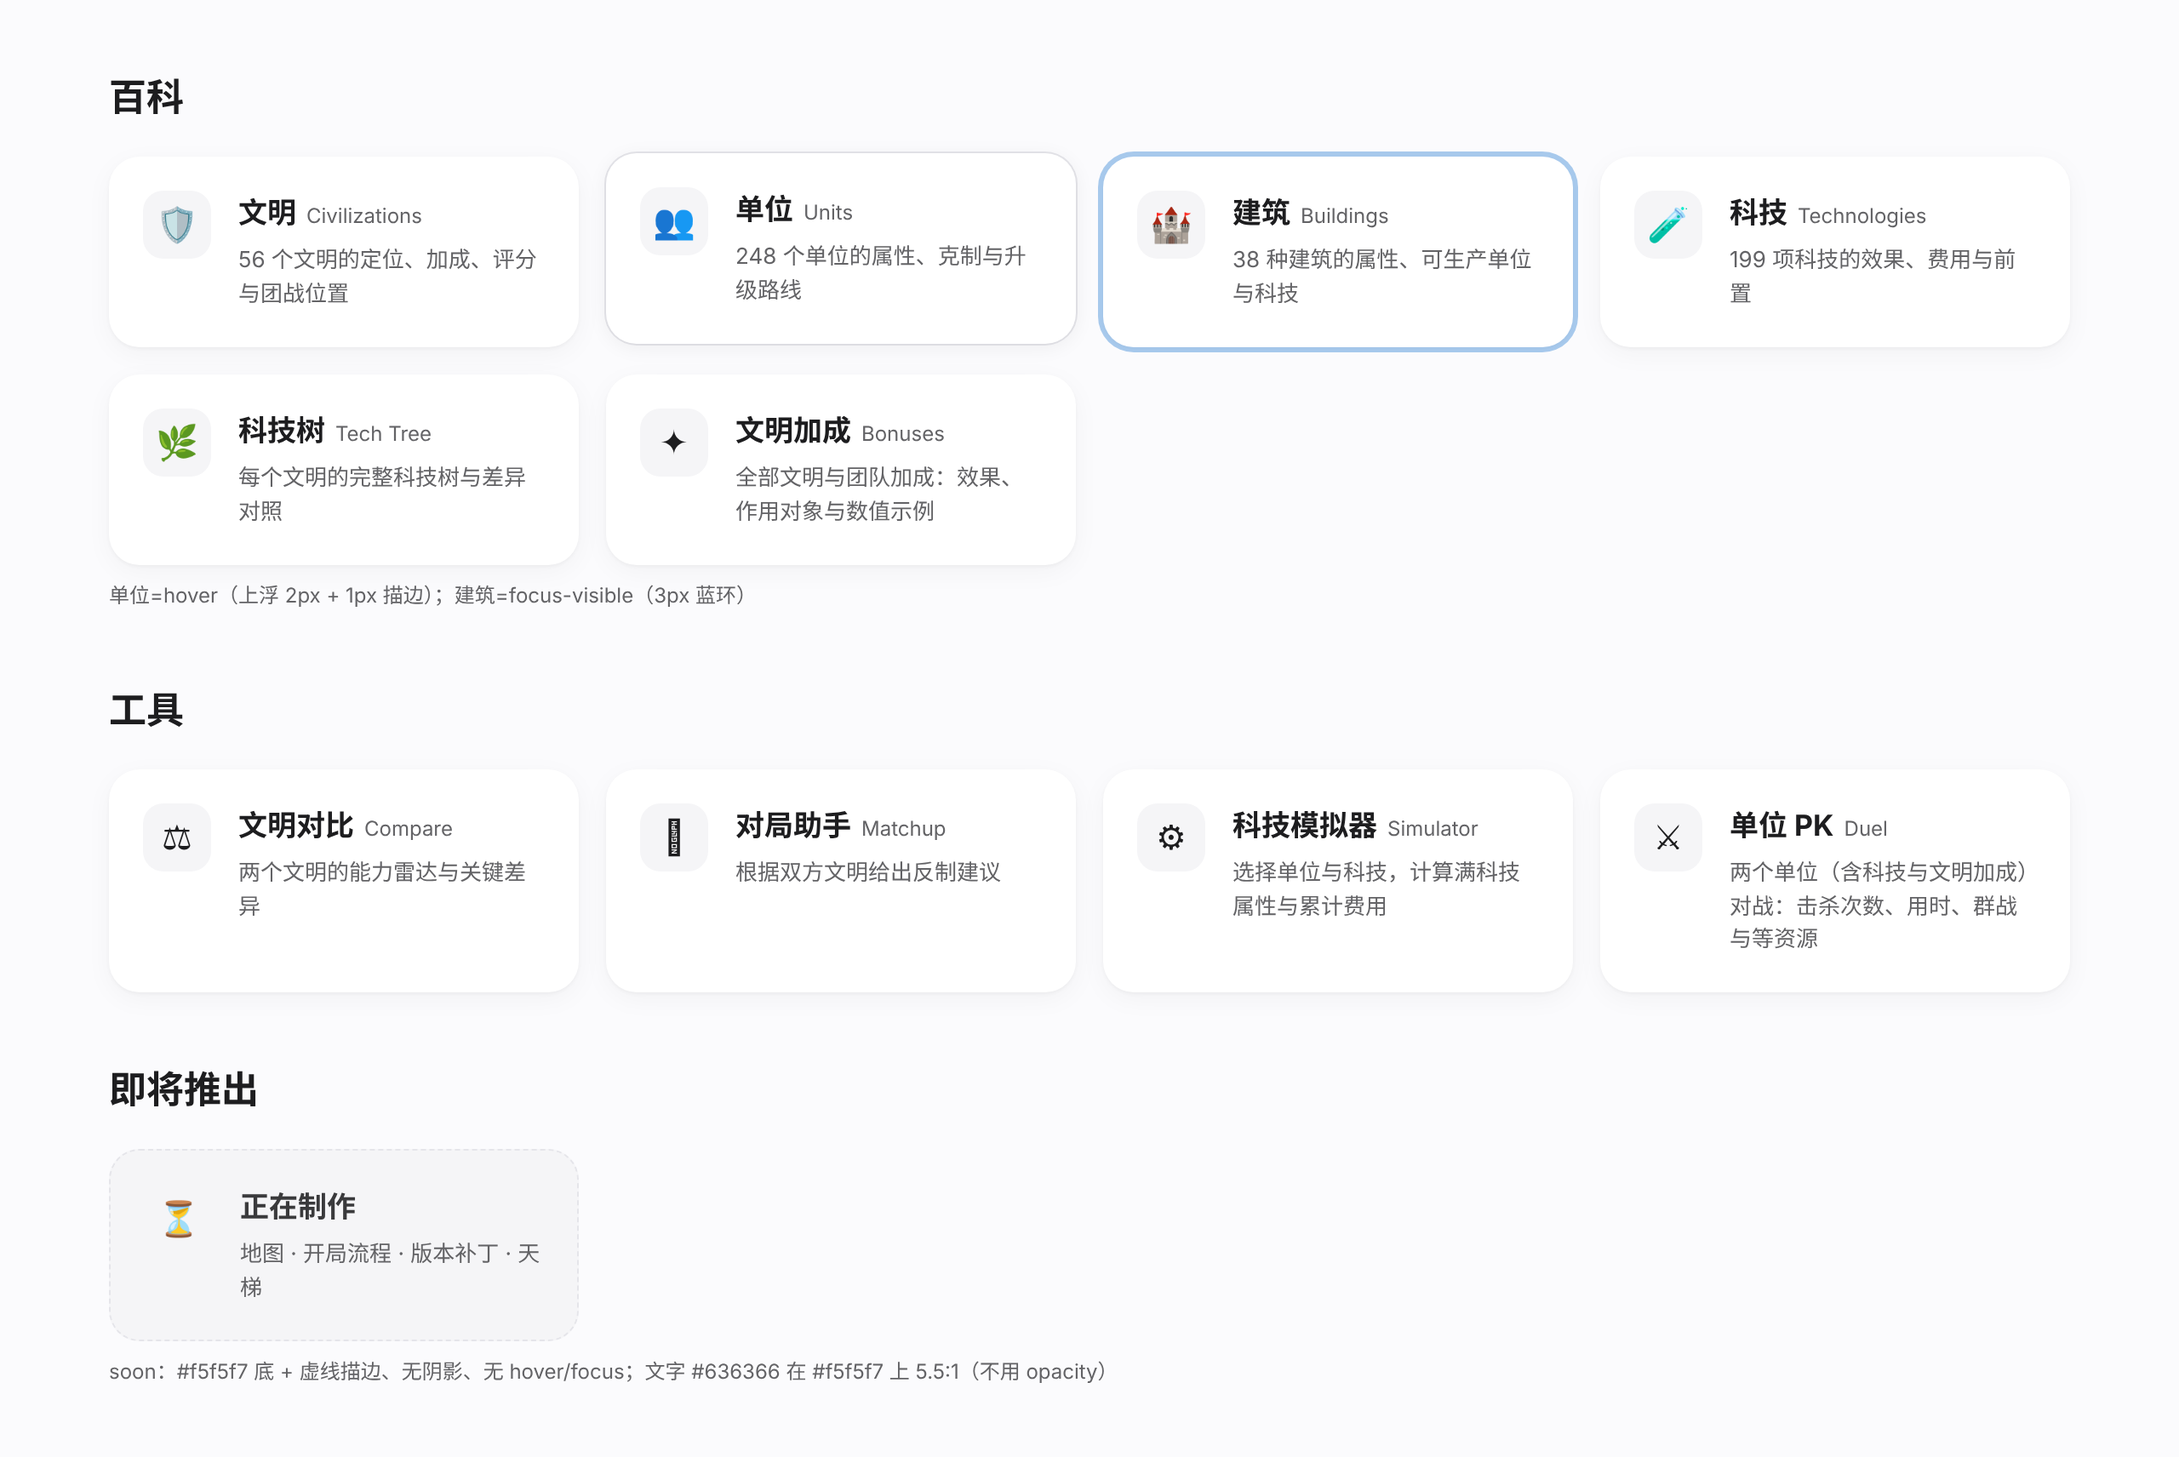
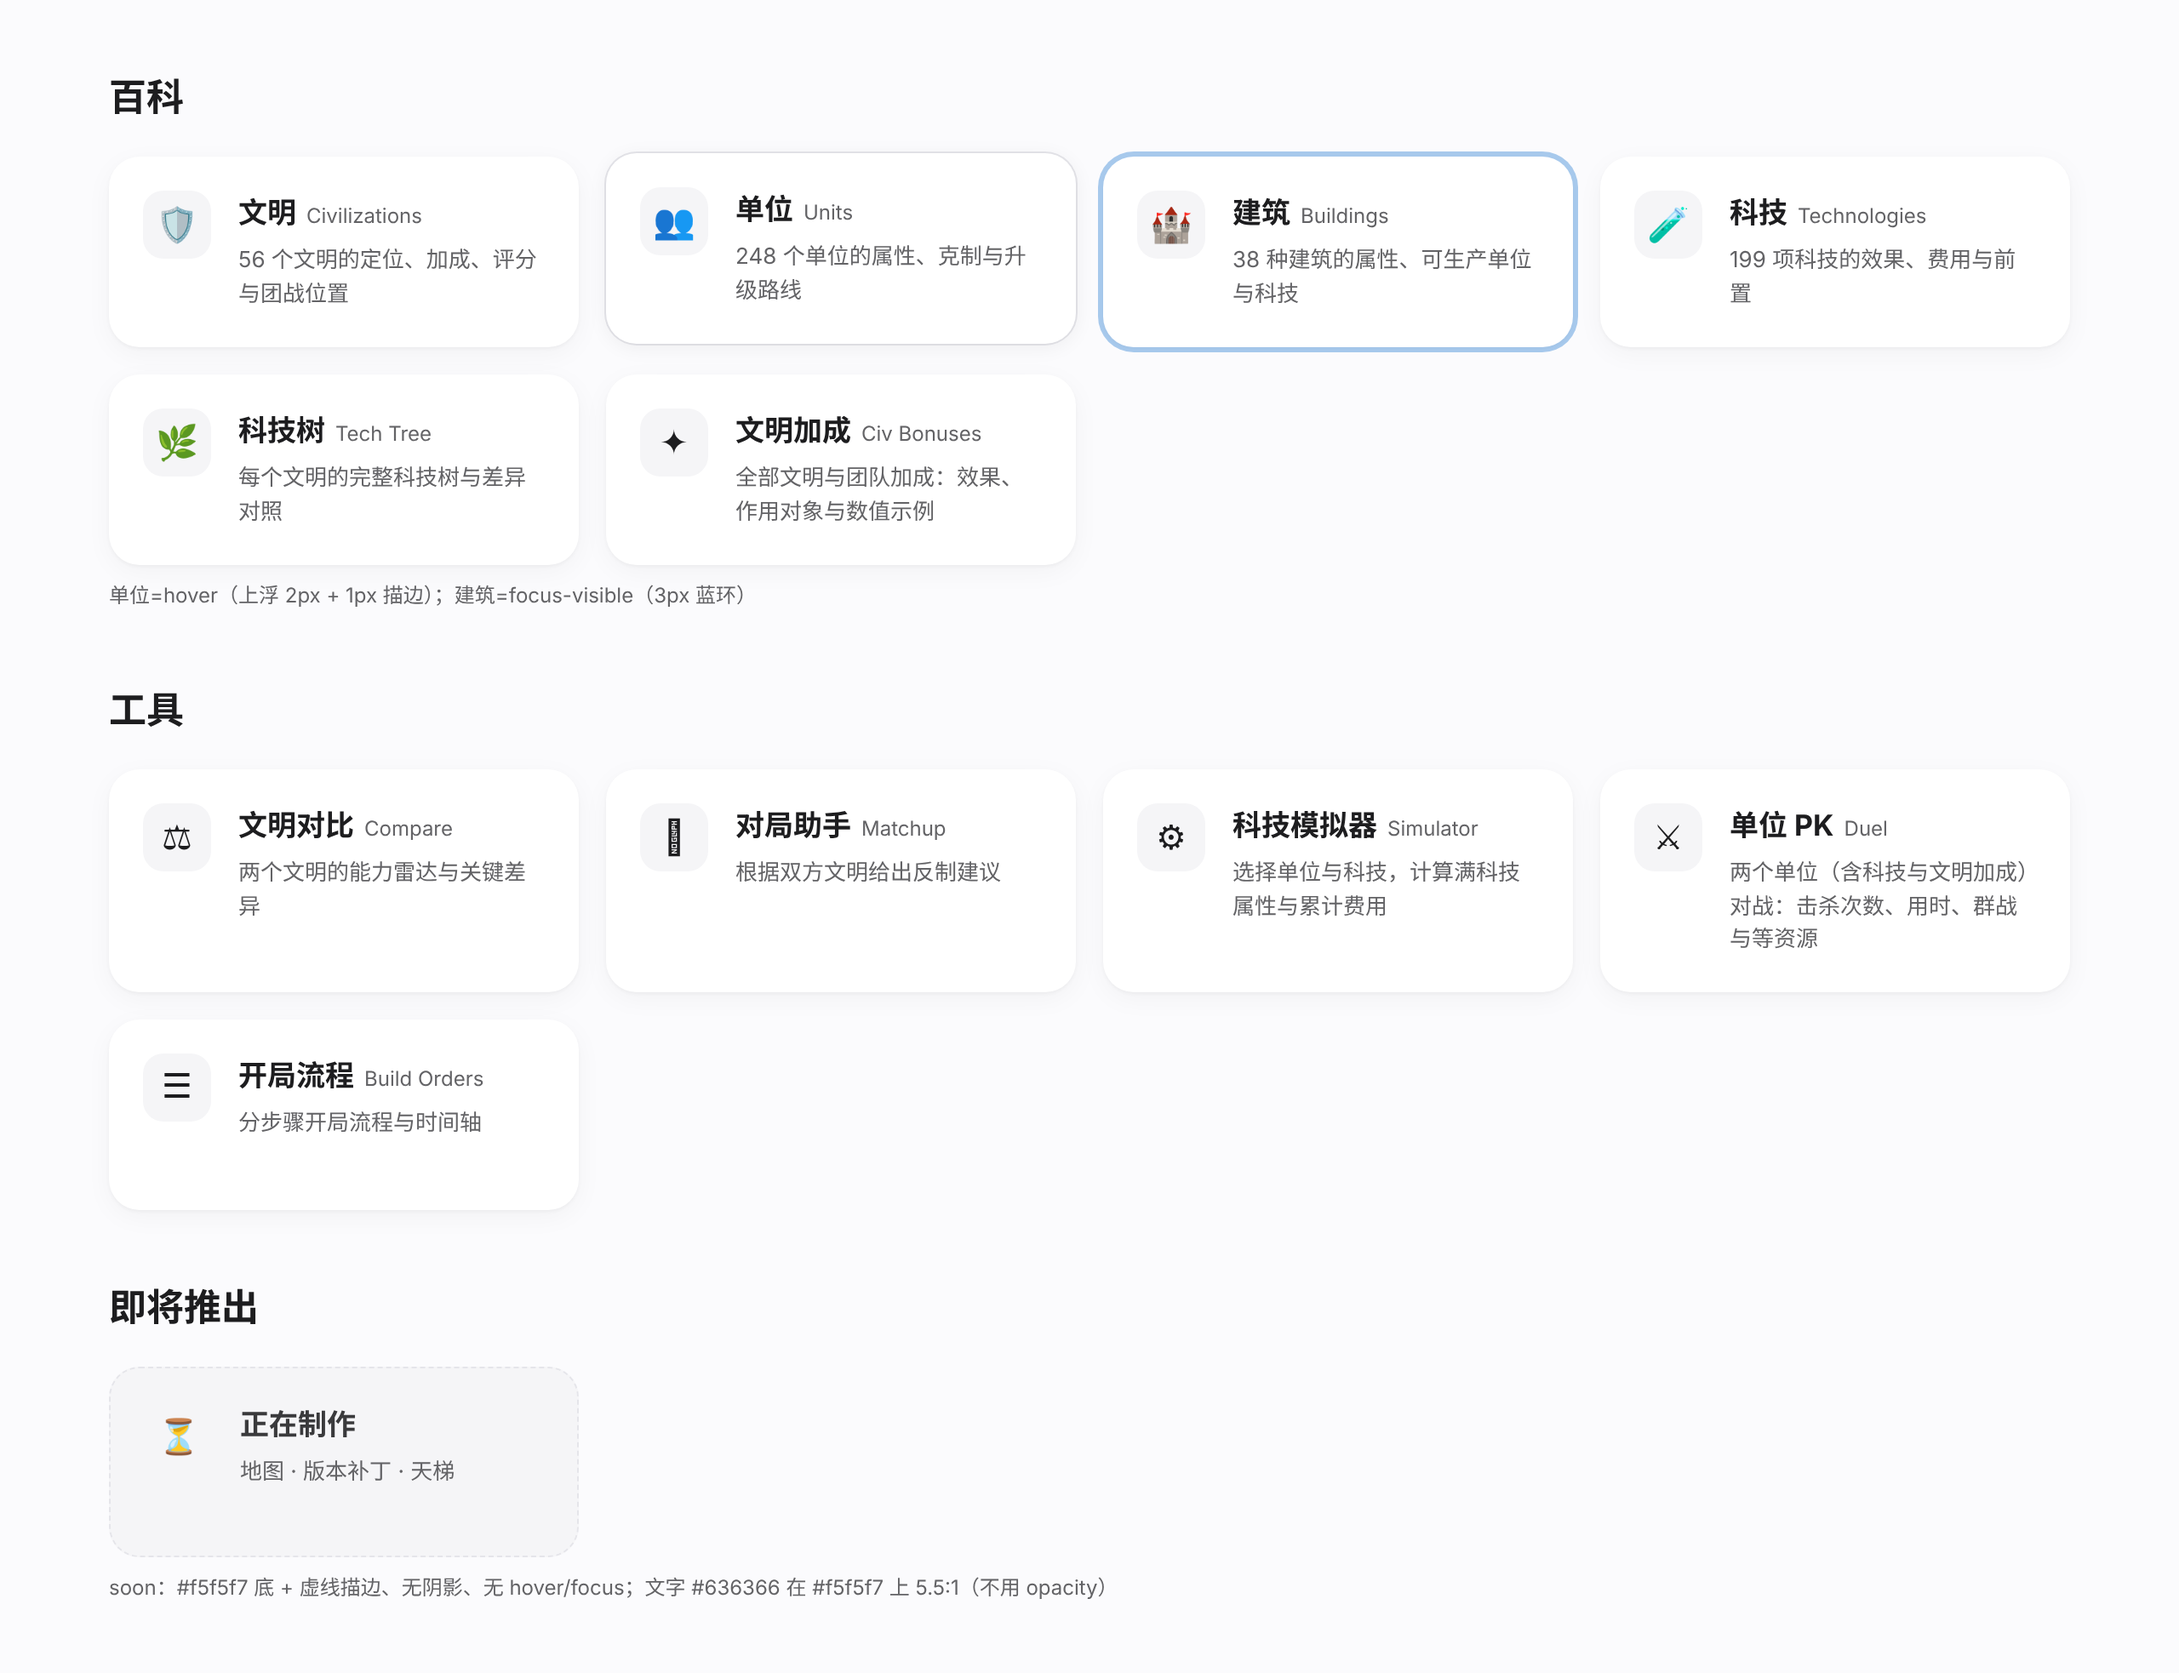
design(#6): 阶段2 v2 — 开局流程卡、文明页加成表入口、Ctrl K 标注

diff --git a/docs/design/mockups/issue6-stage2/home-cards.html b/docs/design/mockups/issue6-stage2/home-cards.html
@@ -5,11 +5,11 @@
 <a class="card focus"><div class=ic>🏰</div><div><h3>建筑<small>Buildings</small></h3><p>38 种建筑的属性、可生产单位与科技</p></div></a>
 <a class="card "><div class=ic>🧪</div><div><h3>科技<small>Technologies</small></h3><p>199 项科技的效果、费用与前置</p></div></a>
 <a class="card "><div class=ic>🌿</div><div><h3>科技树<small>Tech Tree</small></h3><p>每个文明的完整科技树与差异对照</p></div></a>
-<a class="card "><div class=ic>✦</div><div><h3>文明加成<small>Bonuses</small></h3><p>全部文明与团队加成：效果、作用对象与数值示例</p></div></a>
+<a class="card "><div class=ic>✦</div><div><h3>文明加成<small>Civ Bonuses</small></h3><p>全部文明与团队加成：效果、作用对象与数值示例</p></div></a>
 </div><div class=ann style="margin:8px 0">单位=hover（上浮 2px + 1px 描边）；建筑=focus-visible（3px 蓝环）</div><h2>工具</h2><div class=grid>
 <a class="card "><div class=ic>⚖</div><div><h3>文明对比<small>Compare</small></h3><p>两个文明的能力雷达与关键差异</p></div></a>
 <a class="card "><div class=ic>⌖</div><div><h3>对局助手<small>Matchup</small></h3><p>根据双方文明给出反制建议</p></div></a>
 <a class="card "><div class=ic>⚙</div><div><h3>科技模拟器<small>Simulator</small></h3><p>选择单位与科技，计算满科技属性与累计费用</p></div></a>
-<a class="card "><div class=ic>⚔</div><div><h3>单位 PK<small>Duel</small></h3><p>两个单位（含科技与文明加成）对战：击杀次数、用时、群战与等资源</p></div></a>
-</div><h2>即将推出</h2><div class=grid><section class="card soon" aria-labelledby=st><div class=ic>⏳</div><div><h3 id=st>正在制作</h3><p>地图 · 开局流程 · 版本补丁 · 天梯</p></div></section></div>
+<a class="card "><div class=ic>⚔</div><div><h3>单位 PK<small>Duel</small></h3><p>两个单位（含科技与文明加成）对战：击杀次数、用时、群战与等资源</p></div></a><a class="card "><div class=ic>☰</div><div><h3>开局流程<small>Build Orders</small></h3><p>分步骤开局流程与时间轴</p></div></a>
+</div><h2>即将推出</h2><div class=grid><section class="card soon" aria-labelledby=st><div class=ic>⏳</div><div><h3 id=st>正在制作</h3><p>地图 · 版本补丁 · 天梯</p></div></section></div>
 <div class=ann style="margin:8px 0 40px">soon：#f5f5f7 底 + 虚线描边、无阴影、无 hover/focus；文字 #636366 在 #f5f5f7 上 5.5:1（不用 opacity）</div></div>

diff --git a/docs/design/mockups/issue6-stage2/civ-header.html b/docs/design/mockups/issue6-stage2/civ-header.html
@@ -1,0 +1,10 @@
+<!doctype html><meta charset=utf-8><link rel=stylesheet href=base.css><style>.hd{background:var(--surf);border-radius:18px;box-shadow:0 1px 2px #0000000a,0 4px 16px #0000000a;padding:24px;display:flex;gap:20px;align-items:flex-start;flex-wrap:wrap}.em{width:64px;height:64px;border-radius:16px;background:var(--s2);display:grid;place-items:center;font-size:32px}.hd h1{margin:0;font-size:28px;line-height:1.2}.hd .sub{color:var(--mu);font-size:13px}.bl{margin-left:auto;display:inline-flex;align-items:center;gap:6px;height:36px;padding:0 14px;border-radius:999px;background:#e5f0fb;color:var(--link);font-size:14px;font-weight:600;text-decoration:none}.bl.f{box-shadow:var(--ring)}.ck{background:var(--surf);border-radius:18px;box-shadow:0 12px 40px #0000001f;max-width:560px}.ck .q{padding:14px 16px;border-bottom:1px solid var(--bd);font-size:16px}.ck .r{display:flex;gap:10px;padding:10px 16px;font-size:14px}.ck .r.on{background:var(--s2)}.ck .t{margin-left:auto;font-size:12px;color:var(--mu)}</style><body><div class=wrap>
+<div class=lbl style="margin-left:0">文明详情页头（法兰克）</div>
+<div class=hd><div class=em>⚜</div><div><h1>法兰克</h1><div class=sub>Franks</div></div><a class=bl href="#/bonuses">📜 文明加成表 →</a></div>
+<div class=ann style="margin:8px 0">右上胶囊链接 → #/bonuses：--color-link-soft 底 + --color-link 字 5.0:1+，高 36，600 字重；移动端换行后整宽置于标题下（热区 ≥44 高）</div>
+<div class=hd style="max-width:390px;margin-top:16px"><div class=em>⚜</div><div><h1>法兰克</h1><div class=sub>Franks</div></div><a class="bl f" style="margin-left:0;width:100%;height:44px;justify-content:center">📜 文明加成表 →</a></div>
+<div class=ann style="margin:8px 0">↑ 390 宽 + focus-visible</div>
+<div class=lbl style="margin-left:0">Ctrl K 入口：输入「加成」</div>
+<div class=ck><div class=q>⌕ 加成</div><div class="r on">📜 文明加成<span class=t>页面 · 全部文明与团队加成</span></div><div class=r>⚜ 法兰克 · 文明加成<span class=t>文明</span></div></div>
+<div class=ann style="margin:8px 0 40px">索引「文明加成 / 加成 / 团队加成 / bonus」→ #/bonuses；「页面」类结果置顶</div>
+</div>
